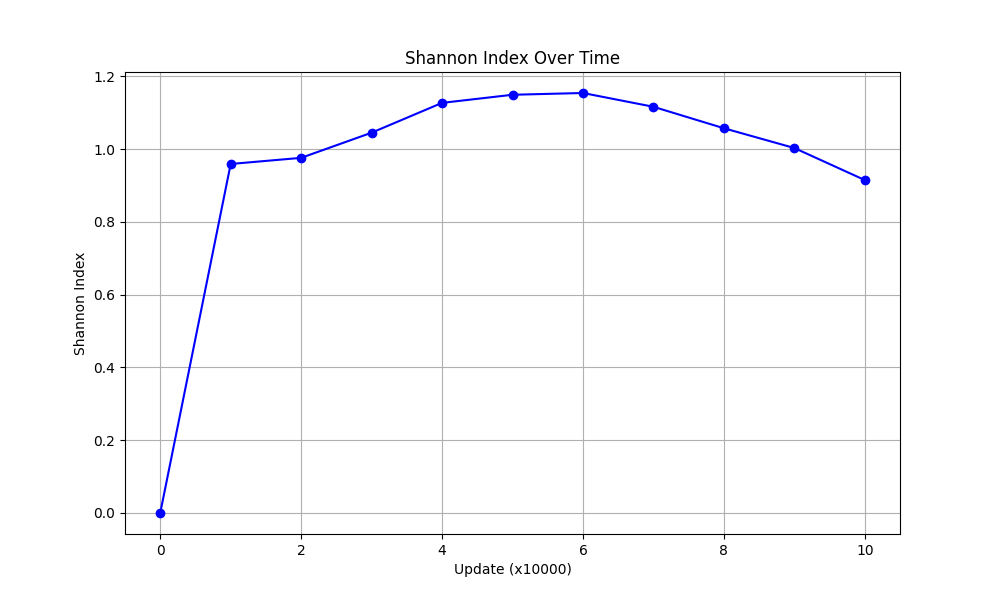
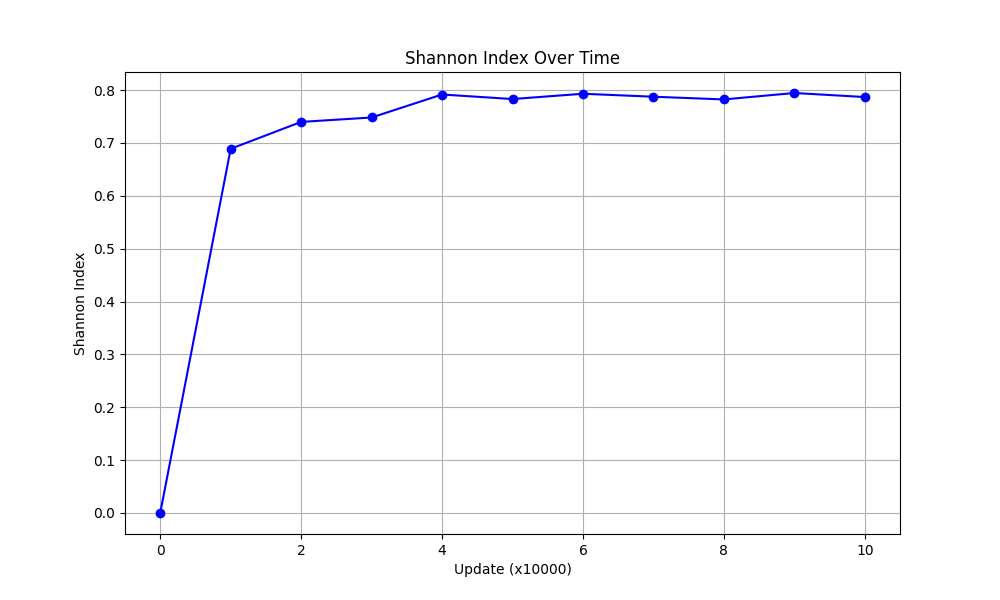
some stats updates

diff --git a/shannon.py b/shannon.py
@@ -24,7 +24,7 @@ def shannon_index(phenotypes):
         return 0.0
     
     shannon = 0.0
-    for count in phenotypes[2:]:
+    for count in phenotypes[2:-1]:
         if count > 0:
             proportion = count / total
             shannon -= proportion * log(proportion)
@@ -42,3 +42,14 @@ plt.xlabel('Update (x10000)')
 plt.ylabel('Shannon Index')
 plt.grid()
 plt.savefig('shannon_index_plot.png')
+
+#plot org over time, and then the sum of rows 3 through 11 and plot over time
+plt.figure(figsize=(10, 6))
+plt.plot(datafile['org'], marker='o', linestyle='-', color='g', label='Org')
+plt.plot(datafile.iloc[:, 2:11].sum(axis=1), marker='x', linestyle='--', color='r', label='Sum of Phenotypes')
+plt.title('Organism and Phenotype Sum Over Time')
+plt.xlabel('Update (x10000)')
+plt.ylabel('Count')
+plt.legend()
+plt.grid()
+plt.savefig('org_and_phenotype_sum_plot.png')

diff --git a/native.cpp b/native.cpp
@@ -35,6 +35,7 @@ int main(int argc, char *argv[]) {
 
   // Inject starting organisms into the world
   world.SetPopStruct_Grid(config.NUM_BOXES(), config.NUM_BOXES());
+  //world.SetPopStruct_Mixed();
   for (int i = 0; i < config.NUM_START(); i++) {
     Organism* new_org = new Organism(&world, 0);
     world.Inject(*new_org);
